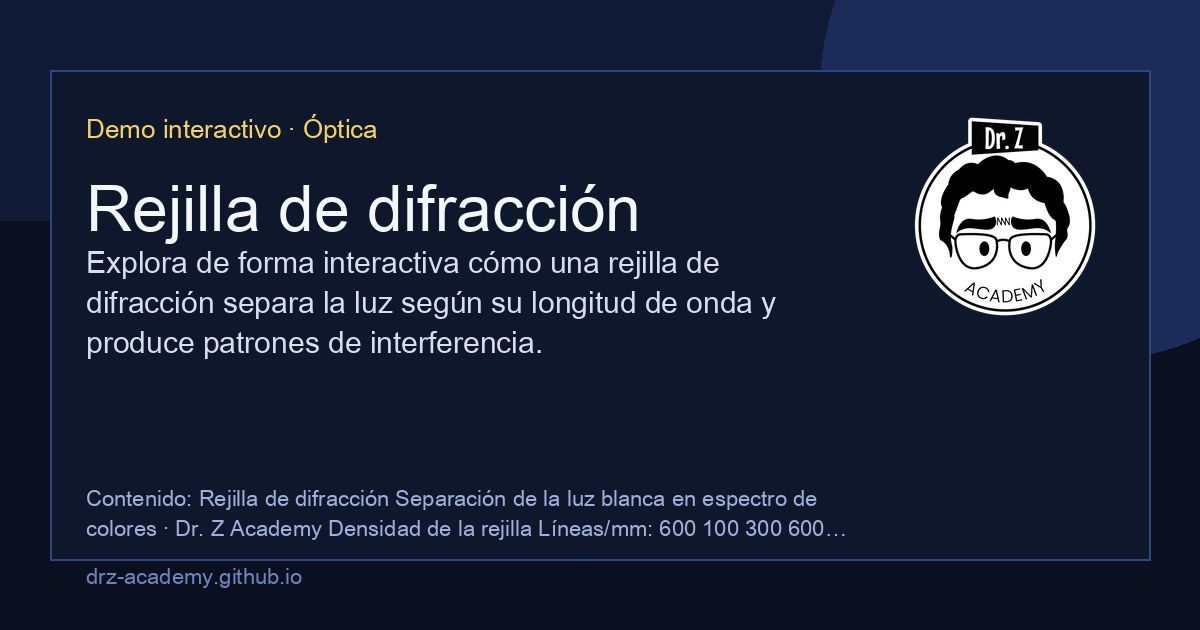
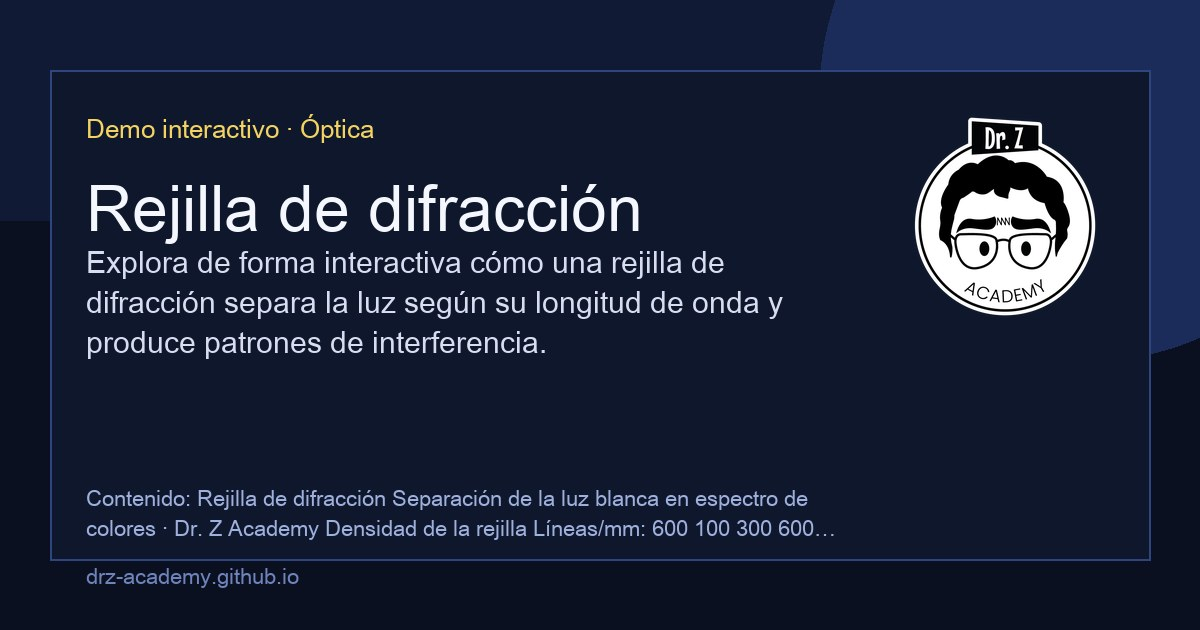
feat: add newsletter finalization page and visualize visitor/event labels in statistics charts

diff --git a/assets/stats-page.js b/assets/stats-page.js
@@ -149,9 +149,11 @@ function renderChart(series) {
         const yV = padTop + (1 - row.visitors / maxY) * plotH;
         return `
           <text x="${x.toFixed(1)}" y="${height - 8}" text-anchor="middle" fill="#888" font-size="11">${escapeHtml(row.label)}</text>
+          <text x="${x.toFixed(1)}" y="${(yE - 10).toFixed(1)}" text-anchor="middle" fill="#F3D361" font-size="11" font-weight="bold">${fmt(row.events)}</text>
           <circle cx="${x.toFixed(1)}" cy="${yE.toFixed(1)}" r="5" fill="#F3D361" style="cursor: pointer; stroke: var(--bg); stroke-width: 2px;">
             <title>${escapeHtml(row.label)}: ${fmt(row.events)} eventos</title>
           </circle>
+          <text x="${x.toFixed(1)}" y="${(yV + 15).toFixed(1)}" text-anchor="middle" fill="#0d7693" font-size="11" font-weight="bold">${fmt(row.visitors)}</text>
           <circle cx="${x.toFixed(1)}" cy="${yV.toFixed(1)}" r="5" fill="#0d7693" style="cursor: pointer; stroke: var(--bg); stroke-width: 2px;">
             <title>${escapeHtml(row.label)}: ${fmt(row.visitors)} IPs únicas</title>
           </circle>

diff --git a/cursos/extraterrestres/newsletter-final.md b/cursos/extraterrestres/newsletter-final.md
@@ -1,0 +1,44 @@
+---
+subject: "⏳ ¡Últimos días! Inscríbete a la Master Class: Extraterrestres"
+---
+
+<div align="center">
+  <a href="https://drz-academy.github.io/cursos/extraterrestres/">
+    <img src="https://drz-academy.github.io/cursos/extraterrestres/images/poster.webp" alt="Afiche Master Class Extraterrestres" style="max-width: 600px; width: 100%; height: auto; border-radius: 8px;">
+  </a>
+</div>
+
+<br>
+
+Hola,
+
+¡Quedan muy pocos días para que comencemos! Este 3 de agosto iniciamos nuestro viaje para explorar el "fenómeno extraterrestre" en la **Master Class: Extraterrestres**, liderada por el astrofísico **Jorge I. Zuluaga (Dr. Z)**.
+
+Si aún no te has inscrito, esta es tu última oportunidad para unirte a esta experiencia donde analizaremos desde la historia y la ciencia ficción, hasta lo que la evidencia científica actual nos dice sobre las civilizaciones más allá de la Tierra.
+
+### Recordatorio rápido:
+- 🗓 **Iniciamos:** Agosto 3 de 2026
+- 📅 **Días:** Lunes (4 sesiones)
+- ⏰ **Horario:** 6:30 p.m. a 8:30 p.m. (Hora de Colombia)
+- 📍 **Modalidad:** Híbrida (Virtual en vivo y Presencial opcional en Medellín).
+- 💡 **No se requieren conocimientos previos.**
+
+---
+
+<div align="center">
+  <h3>👉 <a href="https://drz-academy.github.io/cursos/extraterrestres/" style="color: #007bff; text-decoration: none;">Ver más información del curso</a></h3>
+  <br>
+  <a href="https://drz.academy/producto/extraterrestres/" style="background-color: #28a745; color: white; padding: 12px 24px; text-decoration: none; border-radius: 5px; font-weight: bold; font-size: 16px;">Inscríbete ahora haciendo clic aquí</a>
+</div>
+
+<br>
+
+Cualquier duda, escríbenos a nuestro WhatsApp: [wa.me/573002422052](https://wa.me/573002422052) o responde a este correo.
+
+¡No te quedes por fuera, te esperamos!
+
+Saludos,<br>
+**El equipo de Dr. Z Academy**<br>
+<img src="https://drz-academy.github.io/assets/DrZ-Logos/logo-firma.webp" alt="Dr. Z Academy" style="max-width: 180px; height: auto; margin-top: 15px;">
+<br>
+<a href="https://www.instagram.com/dr.zacademy/" style="font-size: 14px;">Instagram: @dr.zacademy</a>
